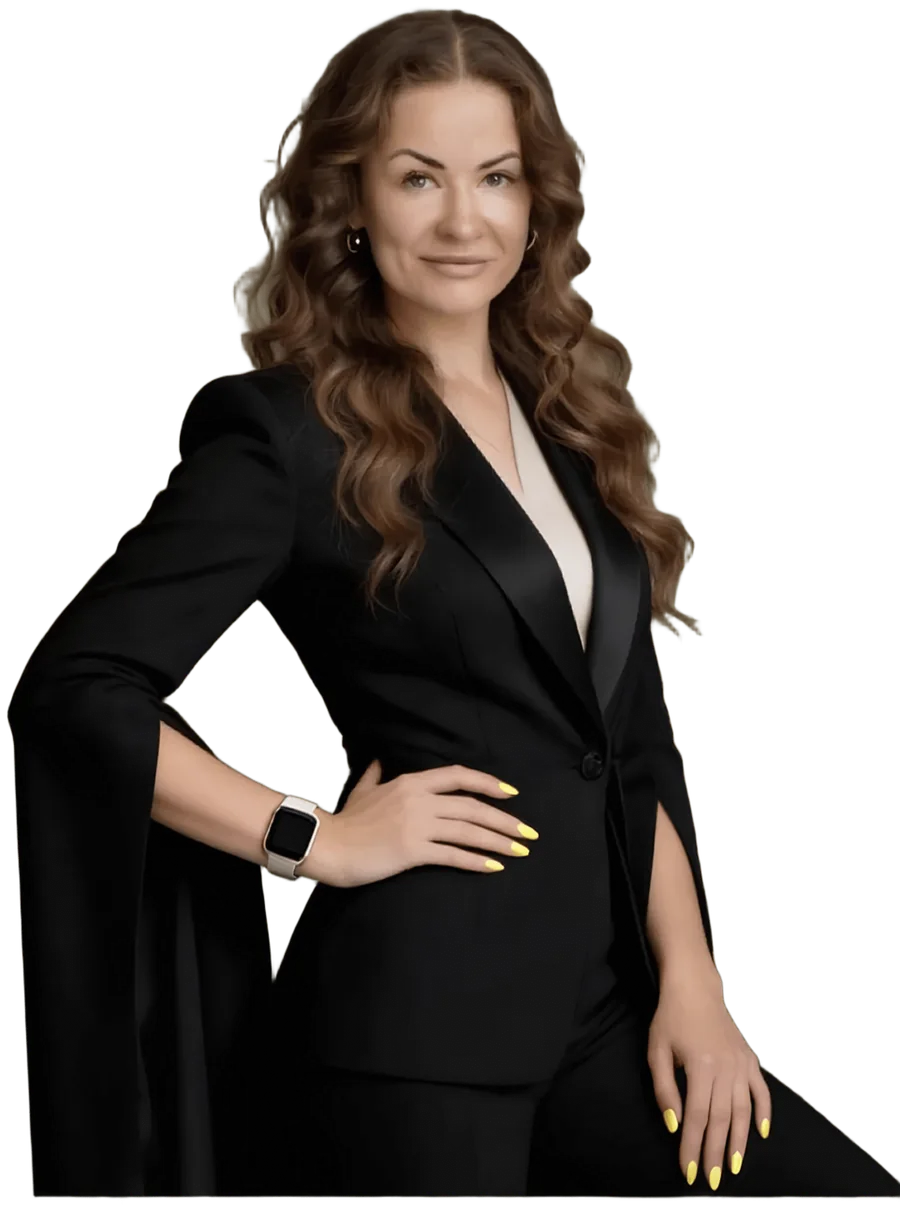
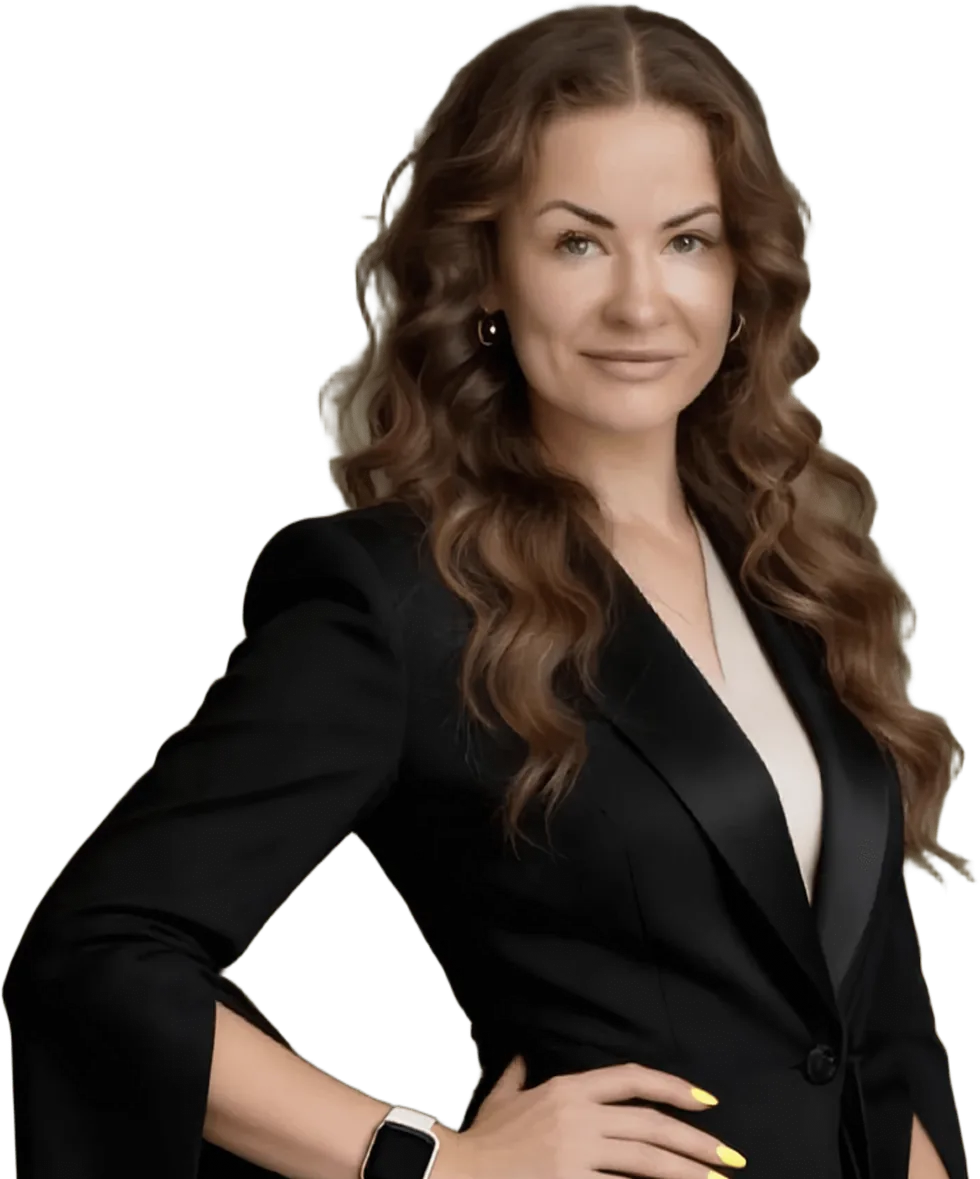
fix(hero): re-crop portrait above the hip so the lower arm is not a stump
The dangling forearm (hand that rested on the rail in the source) got
cut mid-limb by the frame + fade and read as an amputation. Re-cropped
the source just below the hand-on-hip; kept the pose, dropped the arm.
Gentler bottom fade (84

diff --git a/lashmaker/index.html b/lashmaker/index.html
@@ -312,7 +312,7 @@
   }
   @keyframes portraitGlow{0%,100%{opacity:.65;transform:translate(-50%,-50%) scale(1);}50%{opacity:1;transform:translate(-50%,-50%) scale(1.06);}}
   .hero-portrait{position:relative;width:100%;height:100%;}
-  .hero-portrait img{width:100%;height:100%;object-fit:cover;object-position:top center;filter:drop-shadow(0 44px 70px rgba(0,0,0,.55)) saturate(1.04) contrast(1.04) brightness(1.02);-webkit-mask-image:linear-gradient(to bottom,#000 74%,transparent 99%);mask-image:linear-gradient(to bottom,#000 74%,transparent 99%);transform:scaleX(-1);}
+  .hero-portrait img{width:100%;height:100%;object-fit:cover;object-position:top center;filter:drop-shadow(0 44px 70px rgba(0,0,0,.55)) saturate(1.04) contrast(1.04) brightness(1.02);-webkit-mask-image:linear-gradient(to bottom,#000 84%,transparent 100%);mask-image:linear-gradient(to bottom,#000 84%,transparent 100%);transform:scaleX(-1);}
   .hero-sparkle{position:absolute;width:5px;height:5px;background:#fff2d4;border-radius:50%;box-shadow:0 0 9px 3px rgba(232,200,118,.9);animation:heroSparkle 3.2s ease-in-out infinite;pointer-events:none;}
   @keyframes heroSparkle{0%,100%{opacity:0;transform:scale(.4);}50%{opacity:1;transform:scale(1);}}
   .hero-portrait-mobile{display:none;}
@@ -647,7 +647,7 @@
   <div class="hero-fabric" aria-hidden="true"></div>
   <div class="container hero-inner">
     <div class="hero-text">
-      <div class="hero-portrait-mobile" aria-hidden="true"><img src="assets/photos/alexandra-hero-2.webp" alt="Александра Рулева" width="900" height="1211" decoding="async" fetchpriority="high" loading="eager"></div>
+      <div class="hero-portrait-mobile" aria-hidden="true"><img src="assets/photos/alexandra-hero-2.webp" alt="Александра Рулева" width="980" height="1179" decoding="async" fetchpriority="high" loading="eager"></div>
       <span class="eyebrow">Наращивание · Ламинирование ресниц</span>
       <h1><span class="shimmer-fill">Александра Рулева</span></h1>
       <p class="lead">Мастер по наращиванию и ламинированию ресниц. Барочная роскошь и внимание к каждой детали ради взгляда, достойного восхищения.</p>
@@ -662,7 +662,7 @@
       </div>
     </div>
     <div class="hero-portrait-frame" aria-hidden="true">
-      <div class="hero-portrait"><img src="assets/photos/alexandra-hero-2.webp" alt="Александра Рулева" width="900" height="1211" decoding="async" fetchpriority="high" loading="eager"></div>
+      <div class="hero-portrait"><img src="assets/photos/alexandra-hero-2.webp" alt="Александра Рулева" width="980" height="1179" decoding="async" fetchpriority="high" loading="eager"></div>
     </div>
   </div>
   <div class="scroll-cue" aria-hidden="true"><span>Листайте</span><div class="scroll-tick"></div></div>
@@ -943,3 +943,4 @@
 <script src="assets/site.js?v=3" defer></script>
 </body>
 </html>
+
